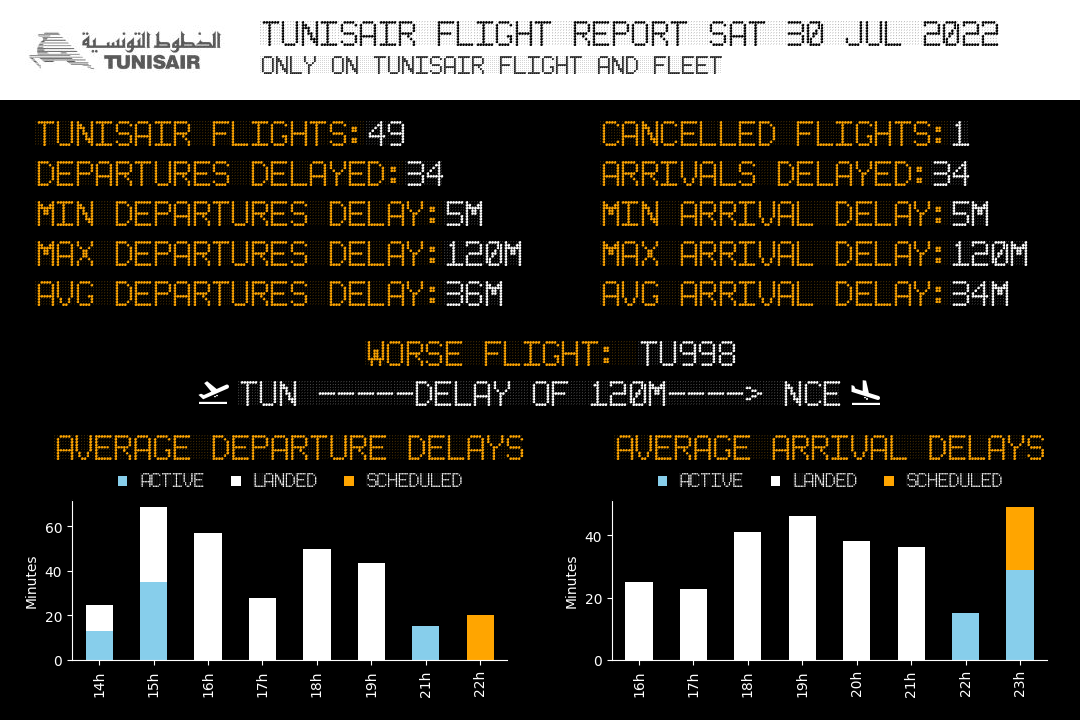
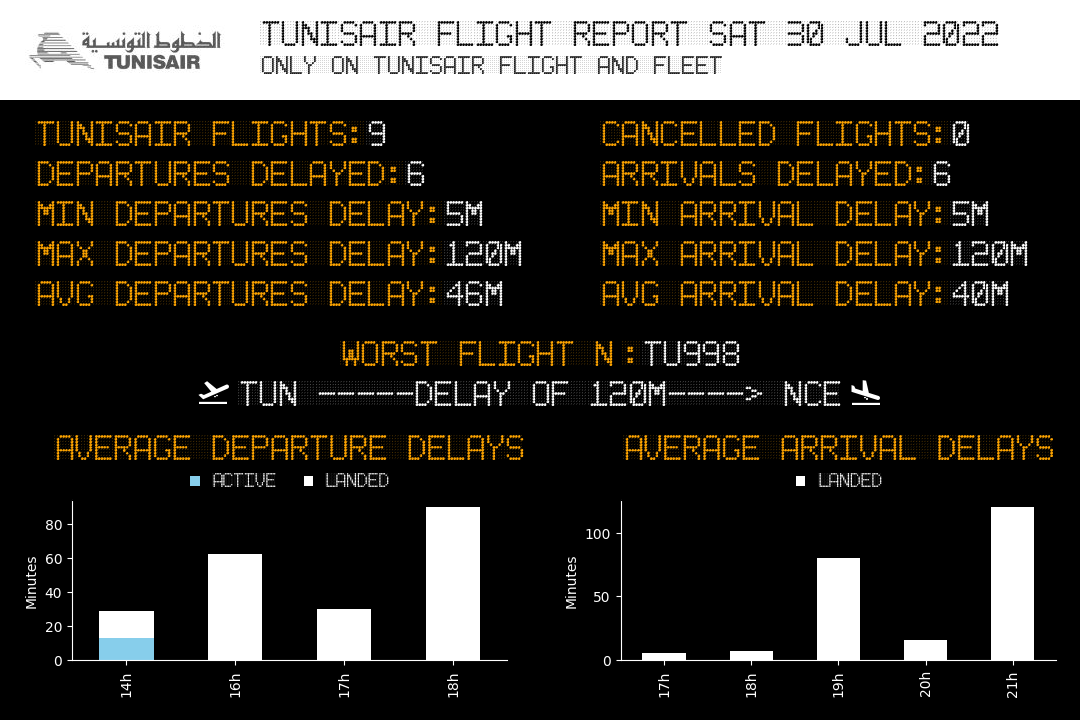
Optimization

diff --git a/utils/create_daily_report.py b/utils/create_daily_report.py
@@ -164,8 +164,8 @@ def create_daily_png_report():
     # Worse flight
     if arrival_delayed_max > 0:
         # Title to be added if exist
-        w, h = get_text_dimensions(f'WORSE FLIGHT: {worse_flight_number}', ImageFont.truetype(path_skyfont, 25))
-        add_banner(Report, (1080-w)/2, 340, f'WORSE FLIGHT: ',
+        w, h = get_text_dimensions(f'WORST FLIGHT N°: {worse_flight_number}', ImageFont.truetype(path_skyfont, 25))
+        add_banner(Report, (1080-w)/2, 340, f'WORST FLIGHT N°:',
                 f'{worse_flight_number}')
 
         # worse flight in DEP ARRIV

diff --git a/utils/tunisair_alert.py b/utils/tunisair_alert.py
@@ -150,7 +150,6 @@ def get_flight(type_flight, force_upade=False):
         ##################################################
         # correction of departure delay
         ##################################################
-        
         if departure_actual is not None:
             datetime_departure_actual = datetime.fromisoformat(departure_actual).astimezone(pytz.timezone(tz))
             dep_hour = datetime_departure_actual.strftime("%H")

diff --git a/daily_cron.py b/daily_cron.py
@@ -2,6 +2,6 @@ from utils.tunisair_alert import get_flight
 from utils.create_daily_report import create_daily_png_report
 
 
-get_flight('departure',True)
-get_flight('arrival',True)
+get_flight('departure')
+get_flight('arrival')
 create_daily_png_report()
